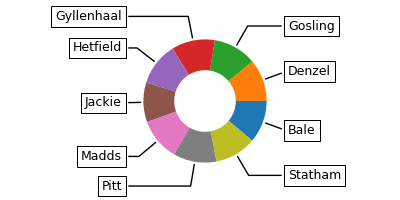
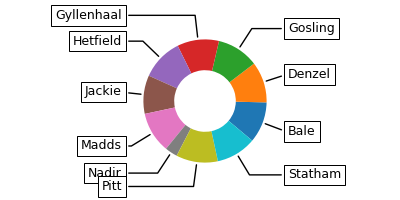
dashboard_bug_fix

diff --git a/dashboard.py b/dashboard.py
@@ -1,11 +1,8 @@
-
 from PyQt5 import QtCore, QtGui, QtWidgets
 from PyQt5.QtWidgets import *
-from PyQt5.QtGui import QPixmap, QImage, QCursor, QIcon, QFont
-from PyQt5.QtWidgets import QToolTip
+from PyQt5.QtGui import QPixmap,QIcon
 from glob import glob
 import numpy as np
-import os
 from paths import *
 
 from utils import donutGenerator
@@ -14,12 +11,11 @@ class Ui_Dashboard_Ui(object):
         '''
         MAIN WINDOW - DASHBOARD
         '''
-
         #Define Fonts
         QtGui.QFontDatabase.addApplicationFont("./fonts/Play-Regular.ttf")
 
         Dashboard_Ui.setObjectName("Dashboard_Ui")
-        Dashboard_Ui.resize(900, 830)
+        Dashboard_Ui.setFixedSize(900, 830)
         Dashboard_Ui.setStyleSheet("background-color: #1b1553;"
         "color: #ff4b3c;"
         "font-family: Play;"
@@ -28,162 +24,57 @@ class Ui_Dashboard_Ui(object):
         Dashboard_Ui.setWindowIcon(QIcon("./imgs/logo.jpg"))
         self.centralwidget = QtWidgets.QWidget(Dashboard_Ui)
         self.centralwidget.setObjectName("centralwidget")
+
+        #Collaboratos
         self.class_number = QtWidgets.QLabel(self.centralwidget)
         self.class_number.setGeometry(QtCore.QRect(30, 40, 400, 400))
         self.class_number.setObjectName("class_number")
+
         self.collabs = QtWidgets.QLabel(self.centralwidget)
         self.collabs.setGeometry(QtCore.QRect(30, 500, 400, 220))
         self.collabs.setObjectName("collabs")
+
+        #Donut1
         self.donut1 = QtWidgets.QLabel(self.centralwidget)
         self.donut1.setGeometry(QtCore.QRect(485, 40, 220, 100))
         self.donut1.setObjectName("donut1")
-        self.donut1_title = QtWidgets.QLabel(self.centralwidget)
-        self.donut1_title.setGeometry(QtCore.QRect(485, 250, 320, 25))
-        self.donut1_title.setStyleSheet("border: 1px solid white;"
-                                        "margin-left: 50px")
-        self.donut1_title.setText("Number of facial data per person")
+        self.donut1.setStyleSheet("border: 1px solid #4B0082;""font-style:roboto;")
 
+        self.donut1_title = QtWidgets.QLabel(self.centralwidget)
+        self.donut1_title.setGeometry(QtCore.QRect(485, 250, 400, 25))
+        self.donut1_title.setStyleSheet("color: white;")
+        self.donut1_title.setText("Facial Data Distribution per Person")
+        self.donut1_title.setAlignment(QtCore.Qt.AlignCenter)
+
+        #Donut2
         self.donut2 = QtWidgets.QLabel(self.centralwidget)
         self.donut2.setGeometry(QtCore.QRect(485, 285, 220, 100))
         self.donut2.setObjectName("donut2")
+        self.donut2.setStyleSheet("border: 1px solid #4B0082;""font-style:roboto;")
 
         self.donut2_title = QtWidgets.QLabel(self.centralwidget)
-        self.donut2_title.setGeometry(QtCore.QRect(485, 495, 350, 25))
-        self.donut2_title.setStyleSheet("border: 1px solid white;"
-                                        "margin-left: 45px")
-        self.donut2_title.setText("Number of Granted & Denied access")
+        self.donut2_title.setGeometry(QtCore.QRect(485, 495, 400, 25))
+        self.donut2_title.setStyleSheet("color: white;")
+        self.donut2_title.setText("Distribution of Granted & Denied Access")
+        self.donut2_title.setAlignment(QtCore.Qt.AlignCenter)
 
+        #Donut3
         self.donut3 = QtWidgets.QLabel(self.centralwidget)
         self.donut3.setGeometry(QtCore.QRect(485, 525, 220, 100))
         self.donut3.setObjectName("donut3")
+        self.donut3.setStyleSheet("border: 1px solid #4B0082;""font-style:roboto;")
 
         self.donut3_title = QtWidgets.QLabel(self.centralwidget)
-        self.donut3_title.setGeometry(QtCore.QRect(485, 735, 325, 25))
-        self.donut3_title.setStyleSheet("border: 1px solid white;"
-                                        "margin-left: 45px")
-        self.donut3_title.setText("Number of access Day/Night time")
-
-        self.donut1.setStyleSheet("border: 1px solid #4B0082;"
-                                  "font-style:roboto;")
-        self.donut2.setStyleSheet("border: 1px solid #4B0082;"
-                                  "font-style:roboto;")
-        self.donut3.setStyleSheet("border: 1px solid #4B0082;"
-                                  "font-style:roboto;")
-
-
-
+        self.donut3_title.setGeometry(QtCore.QRect(485, 735, 400, 25))
+        self.donut3_title.setStyleSheet("color: white;")
+        self.donut3_title.setText("Distribution of Day/Night Access Time")
+        self.donut3_title.setAlignment(QtCore.Qt.AlignCenter)
+    
         Dashboard_Ui.setCentralWidget(self.centralwidget)
-        self.menubar = QtWidgets.QMenuBar(Dashboard_Ui)
-        self.menubar.setGeometry(QtCore.QRect(0, 0, 800, 21))
-        self.menubar.setObjectName("menubar")
-        Dashboard_Ui.setMenuBar(self.menubar)
-  
-        ######menu##
-        self.menubar = QtWidgets.QMenuBar(Dashboard_Ui)
-        self.menubar.setGeometry(QtCore.QRect(0, 0, 800, 21))
-        self.menubar.setObjectName("menubar")
-        self.menubar.setStyleSheet("""
-                QMenuBar
-                {
-                    background-color: #0c0c13 ;
-                    color: #999;
-                }
-                QMenuBar::item
-                {
-                    font-family: serif;
-                    font-style: normal;
-                    background-color: #0c0c13;
-                    color: #f1f1f1 ;
-                }
-                QMenuBar::item::selected
-                {
-                    background-color: #3399cc;
-                    color: #fff;
-                }
-                QMenu
-                {
-                    background-color: #3399cc;
-                    color: #fff;
-                }
-                QMenu::item::selected
-                {
-                    background-color: #000033;
-                    color: #999;
-                }
-                 """)
-
-        self.menuDashboard = QtWidgets.QMenu(self.menubar)
-        self.menuDashboard.setObjectName("menuDashboard")
-        self.menuEnrolement = QtWidgets.QMenu(self.menubar)
-        self.menuEnrolement.setObjectName("menuEnrolement")
-        self.menuSettings = QtWidgets.QMenu(self.menubar)
-        self.menuSettings.setObjectName("menuSettings")
-        self.menuFace_recognition = QtWidgets.QMenu(self.menubar)
-        self.menuFace_recognition.setObjectName("menuFace_recognition")
-        self.start_facerecognition = QtWidgets.QAction(Dashboard_Ui)
-        self.start_facerecognition.setObjectName("start_facerecognition")
-        self.menuFace_recognition.addAction(self.start_facerecognition)
-        self.menuFace_recognition.triggered[QAction].connect(self.openFaceRecognition)
-        Dashboard_Ui.setMenuBar(self.menubar)
-
-        self.actionAjouter_personne = QtWidgets.QAction(Dashboard_Ui)
-        self.actionAjouter_personne.setObjectName("actionAjouter_personne")
-        self.menuEnrolement.addAction(self.actionAjouter_personne)
-
-        self.dashboardWindow = QtWidgets.QAction(Dashboard_Ui)
-        self.dashboardWindow.setObjectName("dashboardWindow")
-        self.menuDashboard.addAction(self.dashboardWindow)
-        self.darkMode = QtWidgets.QAction(self.menuSettings)
-        self.darkMode.setObjectName("Dark Mode")
-        # setting default color of button to light-grey
-        self.menuSettings.setStyleSheet("""QPushButton{background-color: lightgrey}""")
-        self.menuSettings.addAction(self.darkMode)
-        self.EAR_label = QtWidgets.QLabel(self.centralwidget)
-        self.EAR_label.setGeometry(QtCore.QRect(600, 18, 265, 21))
-        self.EAR_label.setObjectName("EAR_label")
-        font = QtGui.QFont()
-        font.setPointSize(15)
-        self.EAR_label.setFont(font)
-        self.blink_count = QtWidgets.QLabel(self.centralwidget)
-        self.blink_count.setGeometry(QtCore.QRect(425, 18, 85, 21))
-        self.blink_count.setObjectName("blink_count")
-        font = QtGui.QFont()
-        font.setPointSize(15)
-        self.blink_count.setFont(font)
-        # setting checkable to true
-
-        # setting calling method by butto
-
-        self.menubar.addAction(self.menuFace_recognition.menuAction())
-        self.menubar.addAction(self.menuEnrolement.menuAction())
-        self.menubar.addAction(self.menuDashboard.menuAction())
-        self.menuEnrolement.triggered[QAction].connect(self.openEnrolementAddNew)
-        self.menubar.addAction(self.menuSettings.menuAction())
-        # Create new action
-        self.menuLanguage = QtWidgets.QMenu(self.menuSettings)
-        self.menuLanguage.setObjectName("menuLanguage")
-
-        Dashboard_Ui.setMenuBar(self.menubar)
-        self.statusbar = QtWidgets.QStatusBar(Dashboard_Ui)
-        self.statusbar.setObjectName("statusbar")
-        Dashboard_Ui.setStatusBar(self.statusbar)
-        self.anti_spoofing = QtWidgets.QAction(Dashboard_Ui)
-        self.anti_spoofing.setObjectName("antispoofing")
-        self.anti_spoofing.setCheckable(True)
-        self.actionEnglish = QtWidgets.QAction(Dashboard_Ui)
-        self.actionEnglish.setObjectName("actionEnglish")
-        self.actionFran_ais = QtWidgets.QAction(Dashboard_Ui)
-        self.actionFran_ais.setObjectName("actionFran_ais")
-        self.menuLanguage.addAction(self.actionEnglish)
-        self.menuLanguage.addAction(self.actionFran_ais)
-
-        self.menuSettings.addAction(self.menuLanguage.menuAction())
-        self.menuSettings.addAction(self.anti_spoofing)
-        self.menubar.addAction(self.menuSettings.menuAction())
 
         self.retranslateUi(Dashboard_Ui)
         QtCore.QMetaObject.connectSlotsByName(Dashboard_Ui)
-        donutGenerator(GALLERY_PATH+"y_train.npy",STAT_PATH+"img.png")
+        donutGenerator(GALLERY_PATH+"y_train_camera1.npy",STAT_PATH+"img.png")
         donutGenerator(HISTORY_PATH+"access_history.npy",STAT_PATH+"img2.png")
         donutGenerator(HISTORY_PATH+"accessTime_history.npy",STAT_PATH+"img3.png")
         self.classCount()
@@ -191,18 +82,18 @@ class Ui_Dashboard_Ui(object):
 
 
     def classCount(self):
-        y_train = np.load(GALLERY_PATH+"y_train.npy")
+        y_train = np.load(GALLERY_PATH+"y_train_camera1.npy")
 
         #data = np.unique(y_train, return_counts=True)[1]
         class_count = np.shape(np.unique(y_train, return_counts=True)[0])[0]
 
         self.class_number.setText("{}".format(class_count))
-        self.class_number.setStyleSheet("font-size: 300px;""font-style: roboto;""text-align: center;")
+        self.class_number.setStyleSheet("font-size: 300px;""font-style: roboto;""text-align: center;""color: white;")
         self.class_number.setAlignment(QtCore.Qt.AlignCenter)
-        self.collabs.setText("Enrolled\nPersonnel")
-        self.collabs.setStyleSheet("font-size: 85px;" "font-style: roboto;")
-        self.collabs.setAlignment(QtCore.Qt.AlignCenter)
 
+        self.collabs.setText("Enrolled\nPersonnel")
+        self.collabs.setStyleSheet("font-size: 85px;" "font-style: roboto;""color: white;")
+        self.collabs.setAlignment(QtCore.Qt.AlignCenter)
 
 
     def pieImg(self):
@@ -217,18 +108,6 @@ class Ui_Dashboard_Ui(object):
         self.donut3.resize(pixmap3.width(), pixmap3.height())
 
 
-
-    def openFaceRecognition(self):
-        print("opening reco")
-
-    def openEnrolementAddNew(self):
-        print("opening test")
-
-
-
-
-
-
     def retranslateUi(self, Dashboard_Ui):
         _translate = QtCore.QCoreApplication.translate
         Dashboard_Ui.setWindowTitle(_translate("Dashboard_Ui", "Dashboard"))
@@ -237,18 +116,6 @@ class Ui_Dashboard_Ui(object):
         self.donut3.setText(_translate("Dashboard_Ui", ""))
         self.collabs.setText(_translate("Dashboard_Ui", ""))
         self.class_number.setText(_translate("Dashboard_Ui", ""))
-        self.menuEnrolement.setTitle(_translate("Dashboard_Ui", "Enrolement"))
-        self.menuSettings.setTitle(_translate("Dashboard_Ui", "Settings"))
-        self.menuFace_recognition.setTitle(_translate("Dashboard_Ui", "Face recognition"))
-        self.menuDashboard.setTitle(_translate("Dashboard_Ui", "Dashboard"))
-        self.actionAjouter_personne.setText(_translate("Dashboard_Ui", "Ajouter personne"))
-        self.dashboardWindow.setText(_translate("Dashboard_Ui", "Open Dashboard"))
-        self.darkMode.setText(_translate("Dashboard_Ui", "Enable Light Mod"))
-        self.menuLanguage.setTitle(_translate("Dashboard_Ui", "Language"))
-        self.actionEnglish.setText(_translate("Dashboard_Ui", "English"))
-        self.actionFran_ais.setText(_translate("Dashboard_Ui", "Français"))
-        self.anti_spoofing.setText(_translate("Dashboard_Ui", "Anti-Spoofing"))
-
 
 if __name__ == "__main__":
     import sys

diff --git a/enrolement_addNew.py b/enrolement_addNew.py
@@ -48,7 +48,7 @@ class Ui_enrolement_addNew(object):
 
         #Main Window
         enrolement_addNew.setObjectName("enrolement_addNew")
-        enrolement_addNew.resize(860, 860)
+        enrolement_addNew.setFixedSize(860, 860)
         enrolement_addNew.setStyleSheet("background-color: #1b1553;"
         "color: #ff4b3c;"
         "font-family: Play;"
